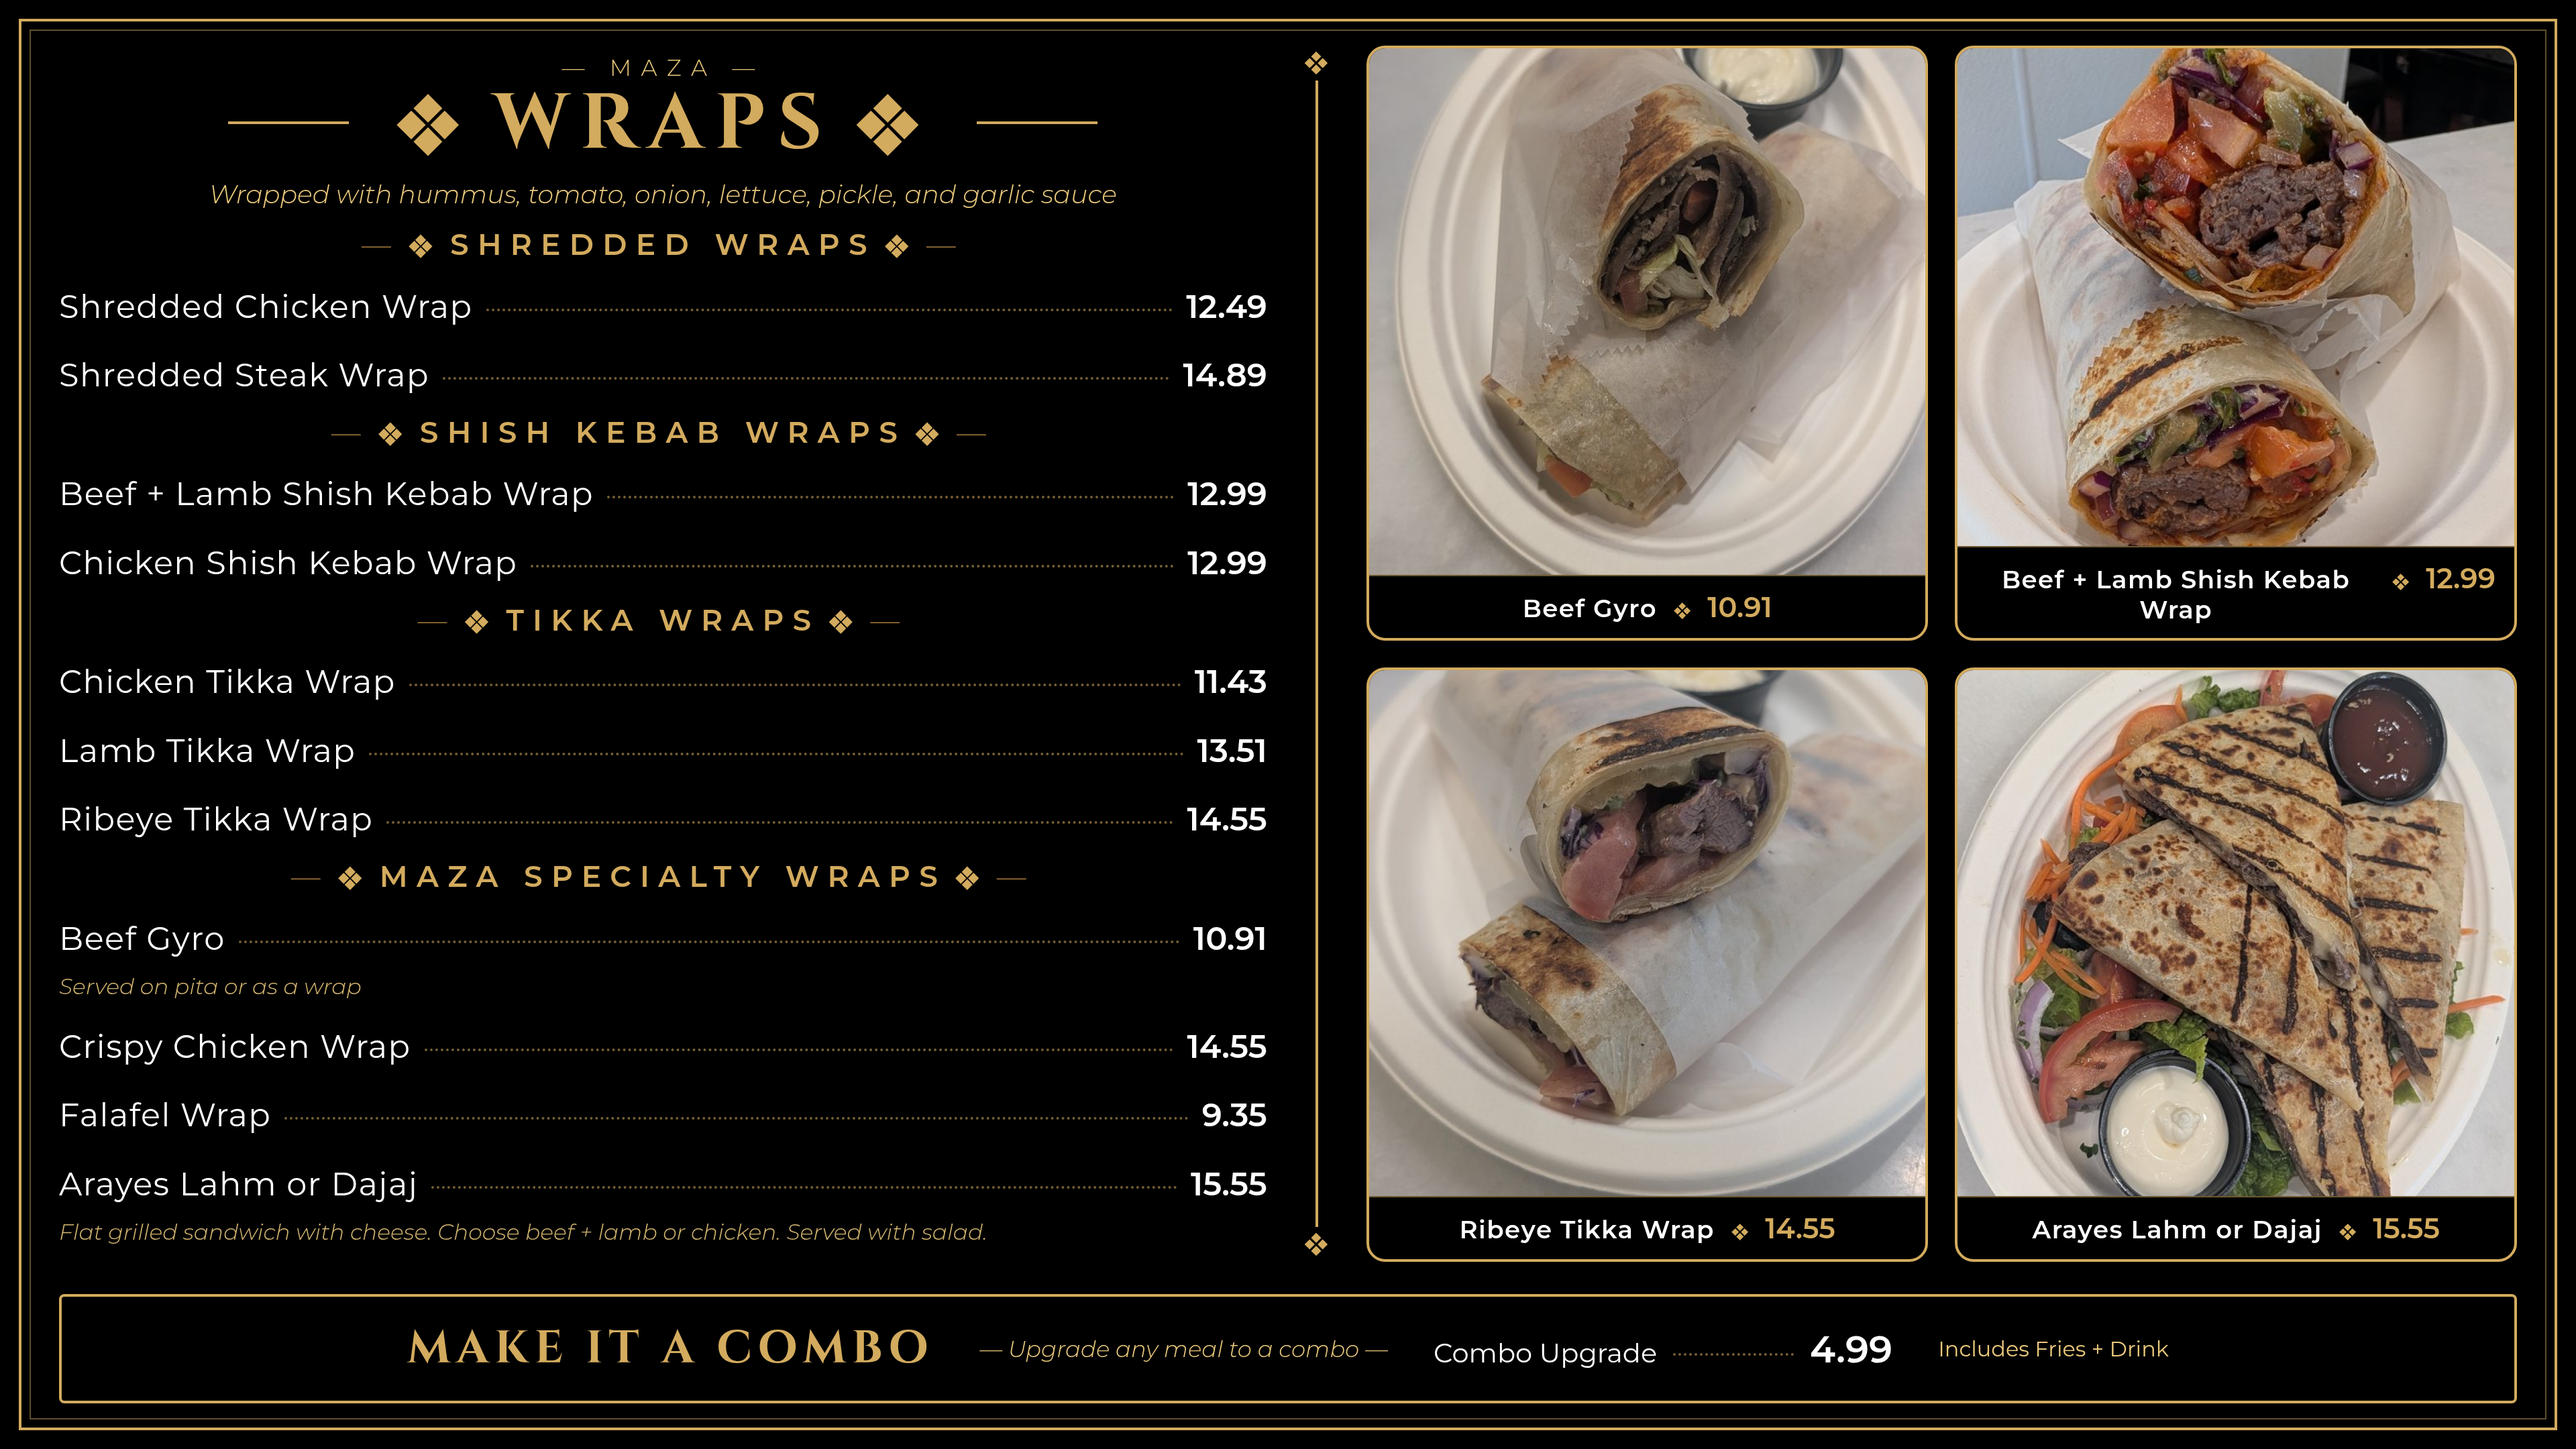
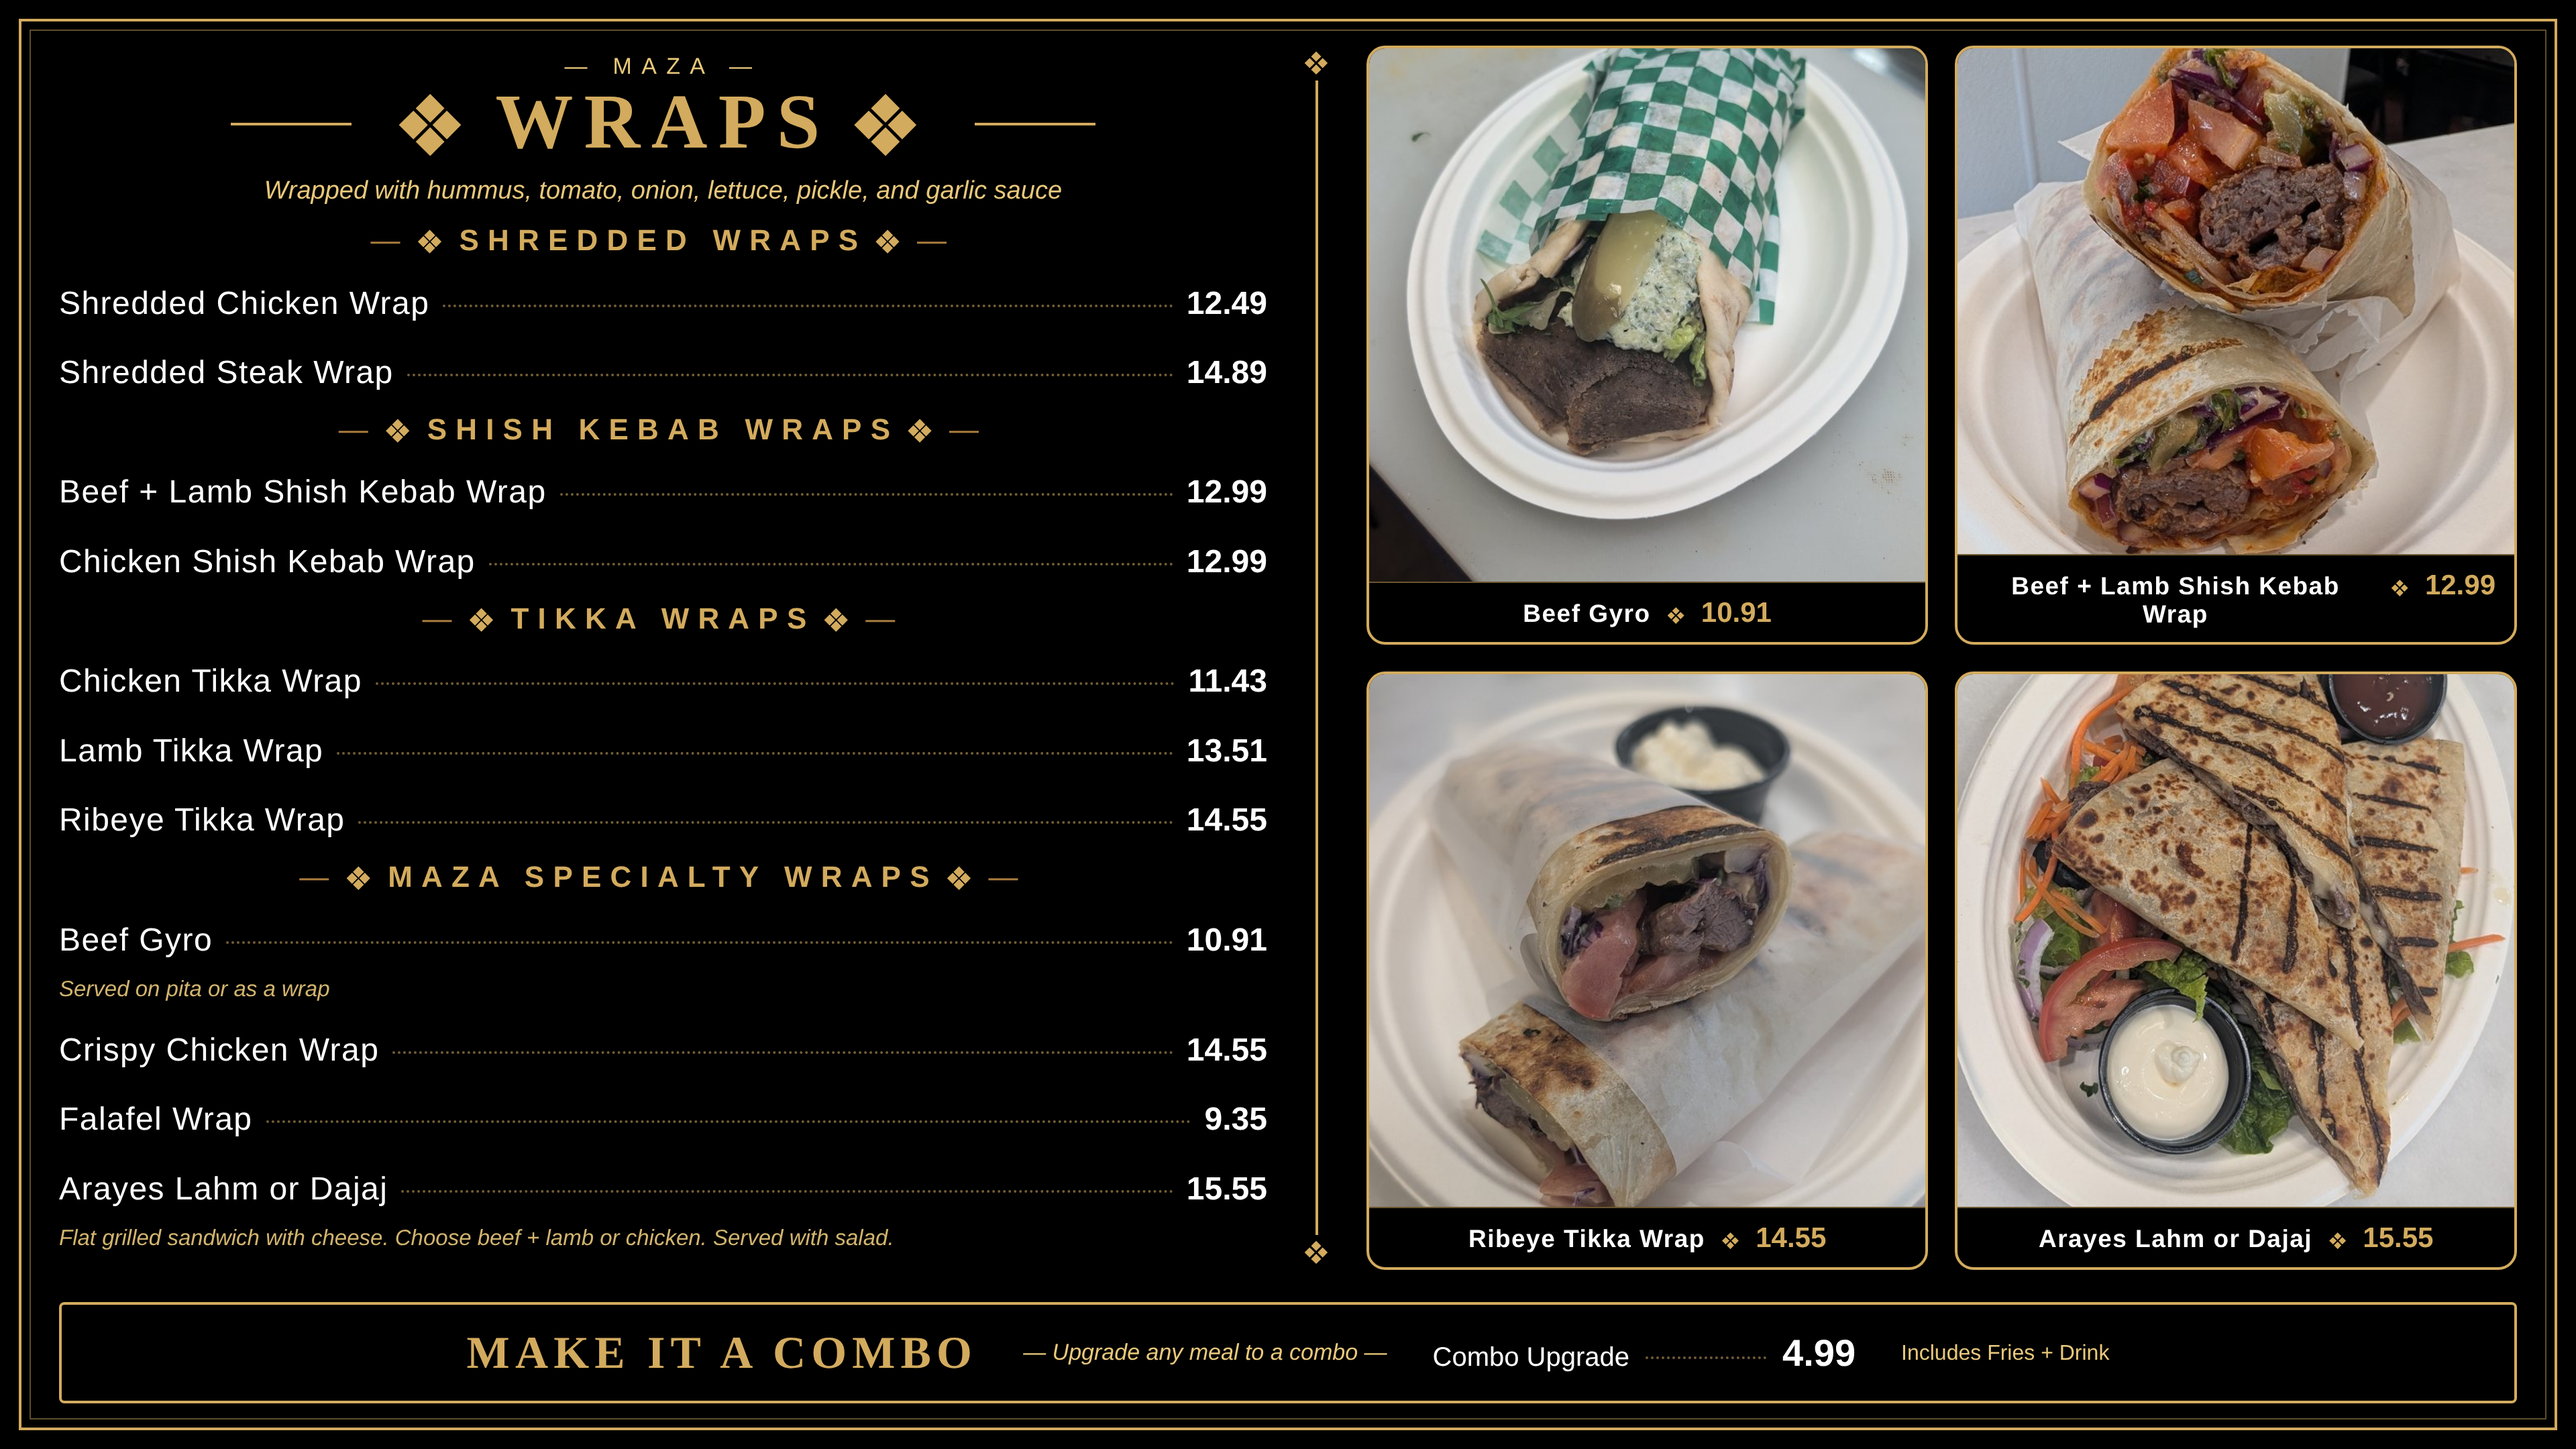
html-menus: first gyro photo, arayes up, ribeye down

diff --git a/html-menus/out/screen1-wraps.html b/html-menus/out/screen1-wraps.html
@@ -28,8 +28,10 @@
   }
   .s1-card .photo-card { flex: 1; min-height: 0; }
   .s1-card .photo-card img { border: none; border-radius: 0; height: 100%; }
-  /* 20% = double the last 5pt drop from 35→30 */
+  /* shish locked */
   .s1-card img[alt="Beef + Lamb Shish Kebab Wrap"] { object-position: center 20%; }
+  .s1-card img[alt="Arayes Lahm or Dajaj"] { object-position: center 65%; }
+  .s1-card img[alt="Ribeye Tikka Wrap"] { object-position: center 30%; }
   .s1-card .card-detail {
     display: flex; align-items: baseline; justify-content: center; gap: 12px;
     padding: 10px 14px;

diff --git a/html-menus/templates/tv-screen1.html b/html-menus/templates/tv-screen1.html
@@ -28,8 +28,10 @@
   }
   .s1-card .photo-card { flex: 1; min-height: 0; }
   .s1-card .photo-card img { border: none; border-radius: 0; height: 100%; }
-  /* 20% = double the last 5pt drop from 35→30 */
+  /* shish locked */
   .s1-card img[alt="Beef + Lamb Shish Kebab Wrap"] { object-position: center 20%; }
+  .s1-card img[alt="Arayes Lahm or Dajaj"] { object-position: center 65%; }
+  .s1-card img[alt="Ribeye Tikka Wrap"] { object-position: center 30%; }
   .s1-card .card-detail {
     display: flex; align-items: baseline; justify-content: center; gap: 12px;
     padding: 10px 14px;
